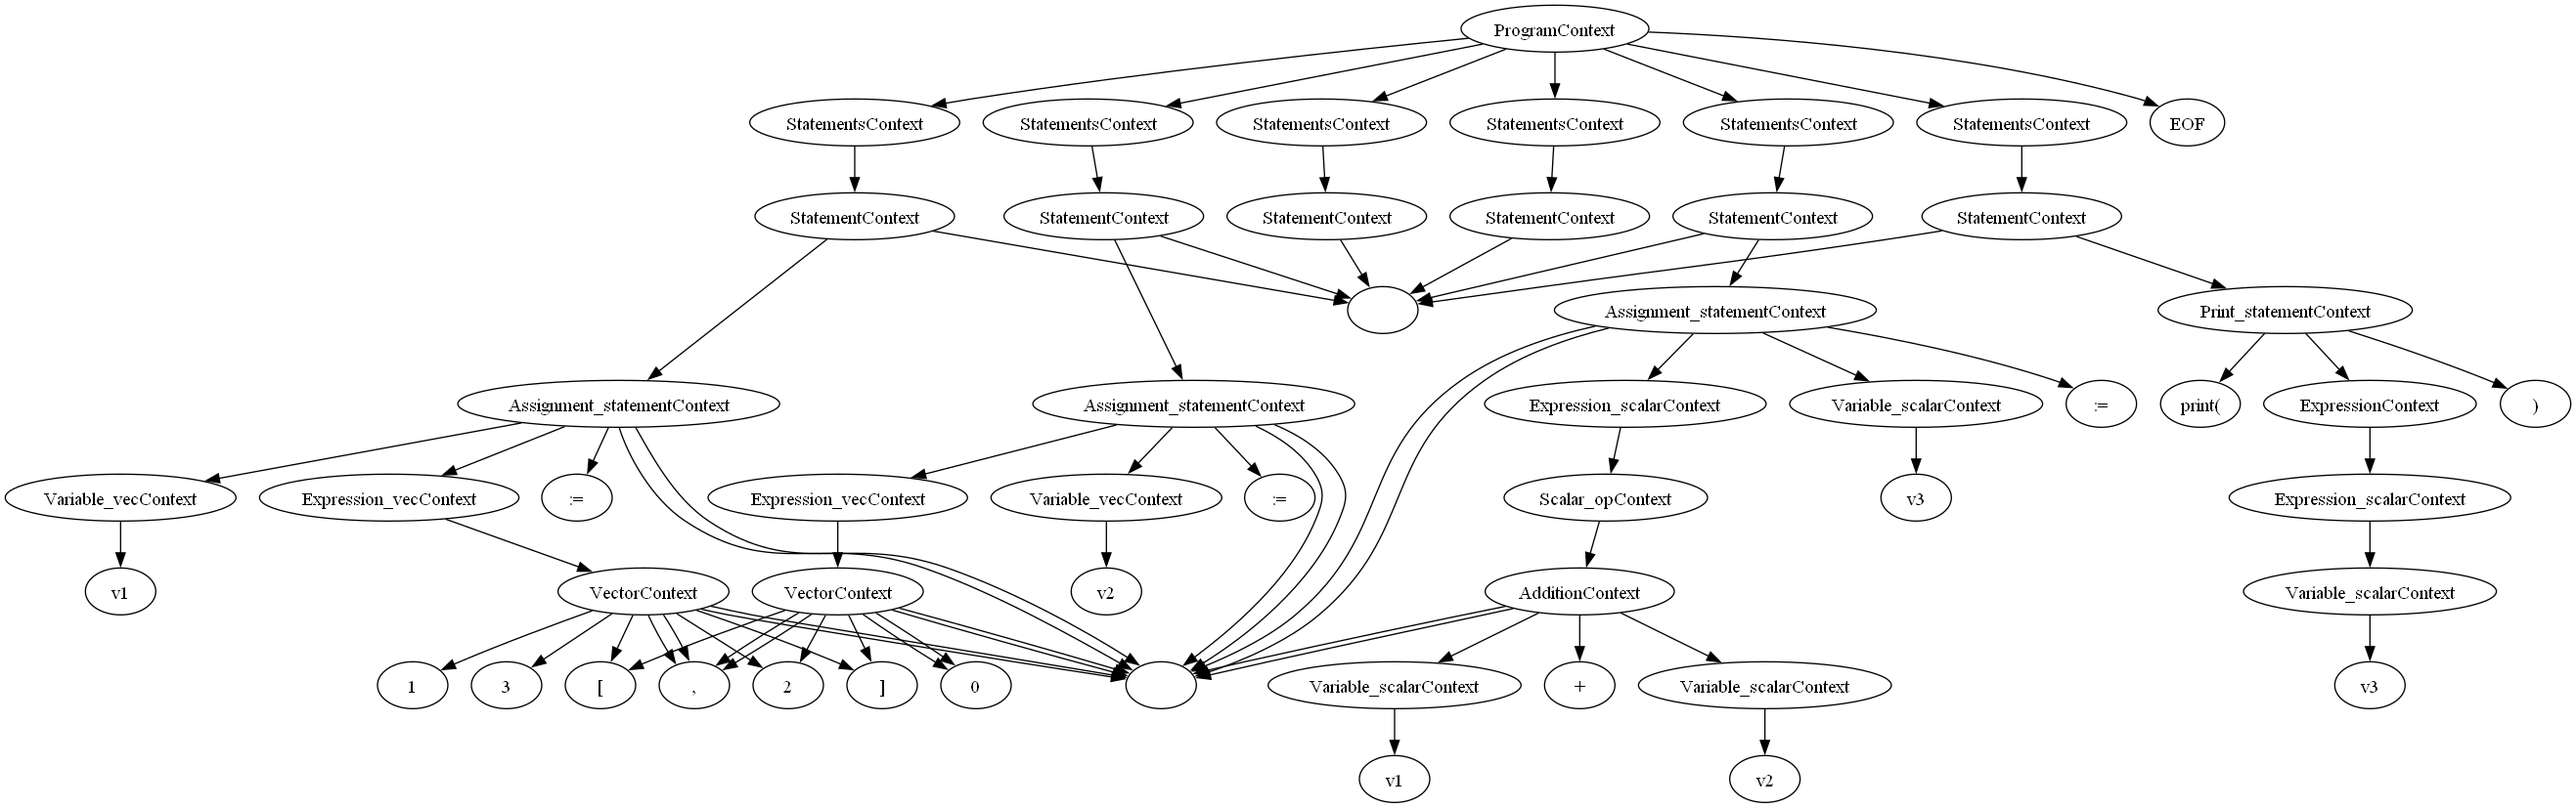
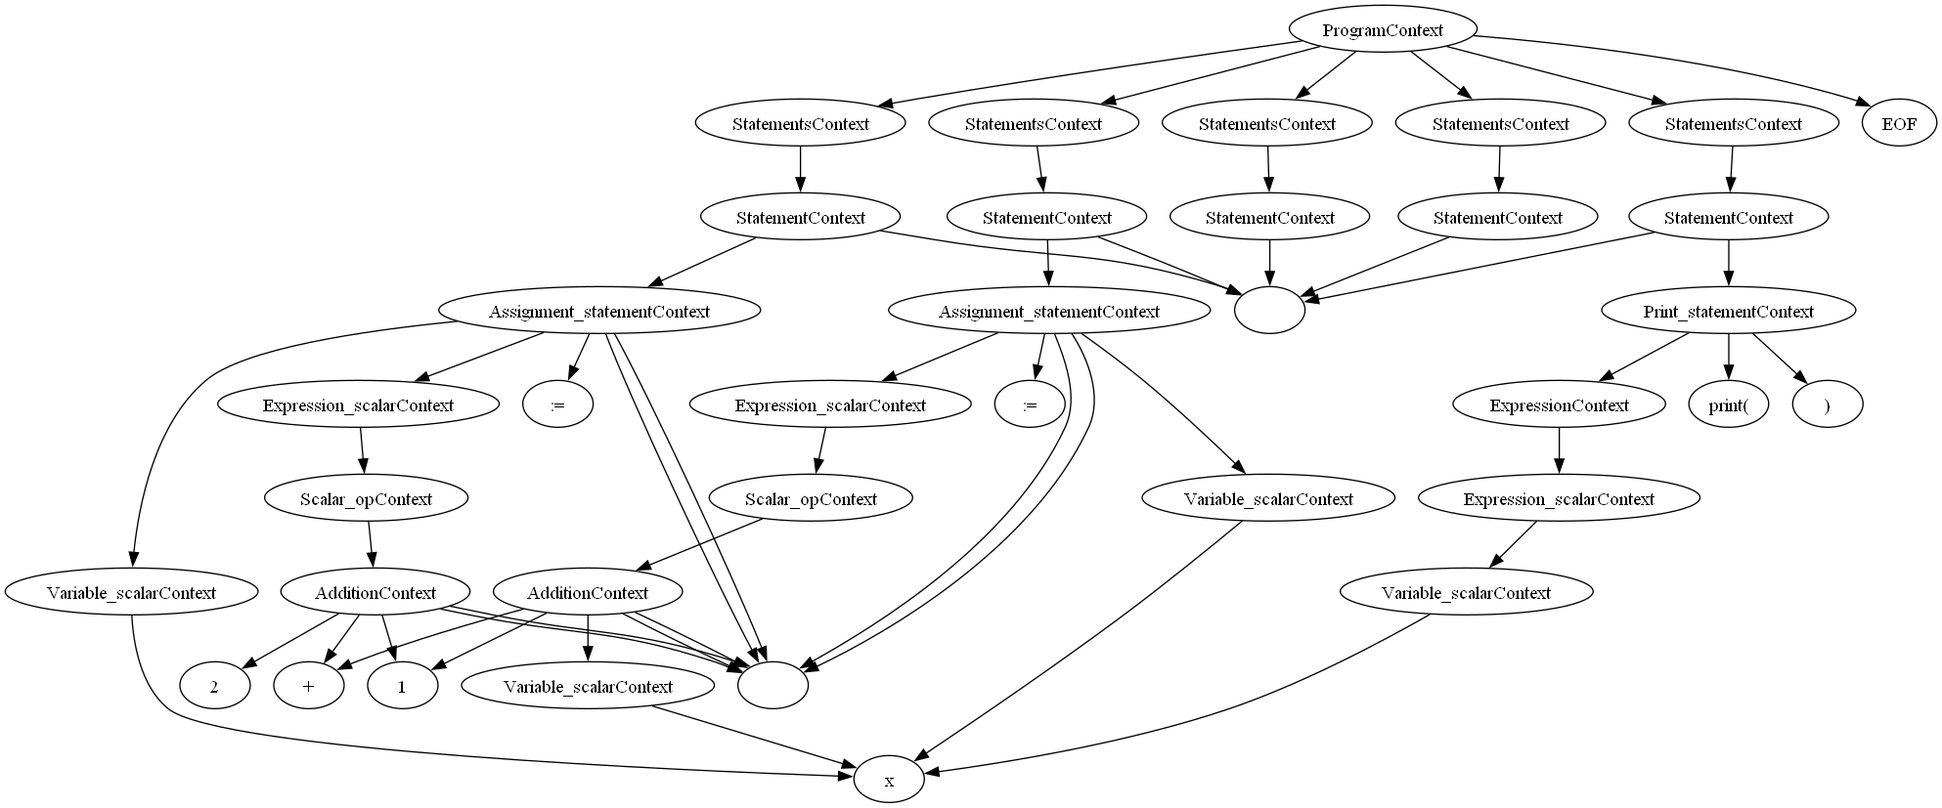
Fixed addition and subtraction

diff --git a/VisitorImpl.py b/VisitorImpl.py
@@ -65,6 +65,8 @@ class VisitorImpl(GrammarVisitor):
                 val = self.visitExpression_scalar(child)
                 v.append(val)
 
+        return np.ndarray(v)
+
     def visitAddition(self, ctx:GrammarParser.AdditionContext):
         result = 0
         for child in ctx.children:
@@ -72,8 +74,8 @@ class VisitorImpl(GrammarVisitor):
             if isinstance(child, TerminalNodeImpl):
                 if is_float(str(child)):
                     result += float(str(child))
-            elif isinstance(child, GrammarParser.VariableContext):
-                var = self.variables[str(child.getChild(0).getChild(0))]
+            elif isinstance(child, GrammarParser.Variable_scalarContext):
+                var = self.variables[str(child.getChild(0))]
                 result += var
             elif isinstance(child, GrammarParser.MultiplicationContext):
                 result += self.visitMultiplication(child)
@@ -90,8 +92,8 @@ class VisitorImpl(GrammarVisitor):
                         l = float(str(child))
                     elif r is None:
                         r = float(str(child))
-            elif isinstance(child, GrammarParser.VariableContext):
-                var = self.variables[str(child.getChild(0).getChild(0))]
+            elif isinstance(child, GrammarParser.Variable_scalarContext):
+                var = self.variables[str(child.getChild(0))]
                 if l is None:
                     l = var
                 elif r is None:
@@ -129,13 +131,19 @@ class VisitorImpl(GrammarVisitor):
                         self.output += f'{str(child.getChild(0))}\n'
                         #print(str(child.getChild(0)))
                 elif isinstance(child.getChild(0), GrammarParser.Expression_scalarContext) or isinstance(child.getChild(0), GrammarParser.Expression_vecContext) or isinstance(child.getChild(0), GrammarParser.Expression_matContext):
-                    var = str(child.getChild(0).getChild(0).getChild(0))
-                    if var is not None:
-                        if isinstance(self.variables[var], np.ndarray):
-                            val = list(self.variables[var])
+                    if isinstance(child.getChild(0).getChild(0), TerminalNodeImpl):
+                        if is_float(str(child.getChild(0).getChild(0))):
+                            self.output += f'{float(str(child.getChild(0).getChild(0)))}'
                         else:
-                            val = self.variables[var]
-                        self.output += f'{self.visitBuilt_in_func(child.getChild(0))}\n'
+                            raise InterpreterError(f'{str(child.getChild(0))} is not a numeric value')
+                    else:
+                        var = str(child.getChild(0).getChild(0).getChild(0))
+                        if var is not None:
+                            if isinstance(self.variables[var], np.ndarray):
+                                val = list(self.variables[var])
+                            else:
+                                val = self.variables[var]
+                            self.output += f'{val}\n'
                 elif isinstance(child.getChild(0), GrammarParser.Built_in_funcContext):
                     self.output += f'{self.visitBuilt_in_func(child.getChild(0))}\n'
                     #print(str(self.visitBuilt_in_func(child.getChild(0))))
@@ -145,8 +153,8 @@ class VisitorImpl(GrammarVisitor):
     def visitSin(self, ctx:GrammarParser.SinContext):
         for child in ctx.children:
             if not isinstance(child.getChild(0), TerminalNodeImpl):
-                if isinstance(child.getChild(0), GrammarParser.VariableContext):
-                    var = str(child.getChild(0).getChild(0).getChild(0))
+                if isinstance(child.getChild(0), GrammarParser.Variable_scalarContext):
+                    var = str(child.getChild(0).getChild(0))
                     #self.variables[var] = np.sin(float(self.variables[var]))
                     return np.sin(float(self.variables[var]))
             else:

diff --git a/interpreter.py b/interpreter.py
@@ -1,9 +1,11 @@
 from antlr4 import *
 from antlr4.tree.Tree import TerminalNodeImpl
+
 from GrammarLexer import GrammarLexer
 from GrammarParser import GrammarParser
 from GrammarVisitor import GrammarVisitor
 from VisitorImpl import VisitorImpl
+
 
 
 # def print_tree(node, indent=0):
@@ -45,12 +47,10 @@ def interpret(code: str) -> str:
     interpreter.visit(tree)
     out = interpreter.output
     if interpreter.error_message:
-        out = f'Error encountered: {interpreter.error_message}'
+        out += f'Error encountered: {interpreter.error_message}'
     return out
 
-print(interpret('''ex := 2 - 1
-print(ex)
-'''))
+print(interpret(read_file('test_examples/example.txt')))
 
 # def parse_file_to_nested_list(input_file='simple_example.txt'):
 #     with open(input_file, 'r') as f:

diff --git a/GUI.py b/GUI.py
@@ -98,6 +98,7 @@ class MatlabInterpreterApp(App):
     def interprete(self, code: str) -> str:
         # This is a placeholder for the actual interpret function
         # Here you would call your existing MATLAB interpreter logic
+
         try:
             return interpret(code)
         except Exception as e:

diff --git a/main.py b/main.py
@@ -1,8 +1,6 @@
 from GUI import MatlabInterpreterApp
 
-
 if __name__ == "__main__":
     #main()
-    #generateTree(read_file('test_examples/vec.txt'))
     MatlabInterpreterApp().run()
 
